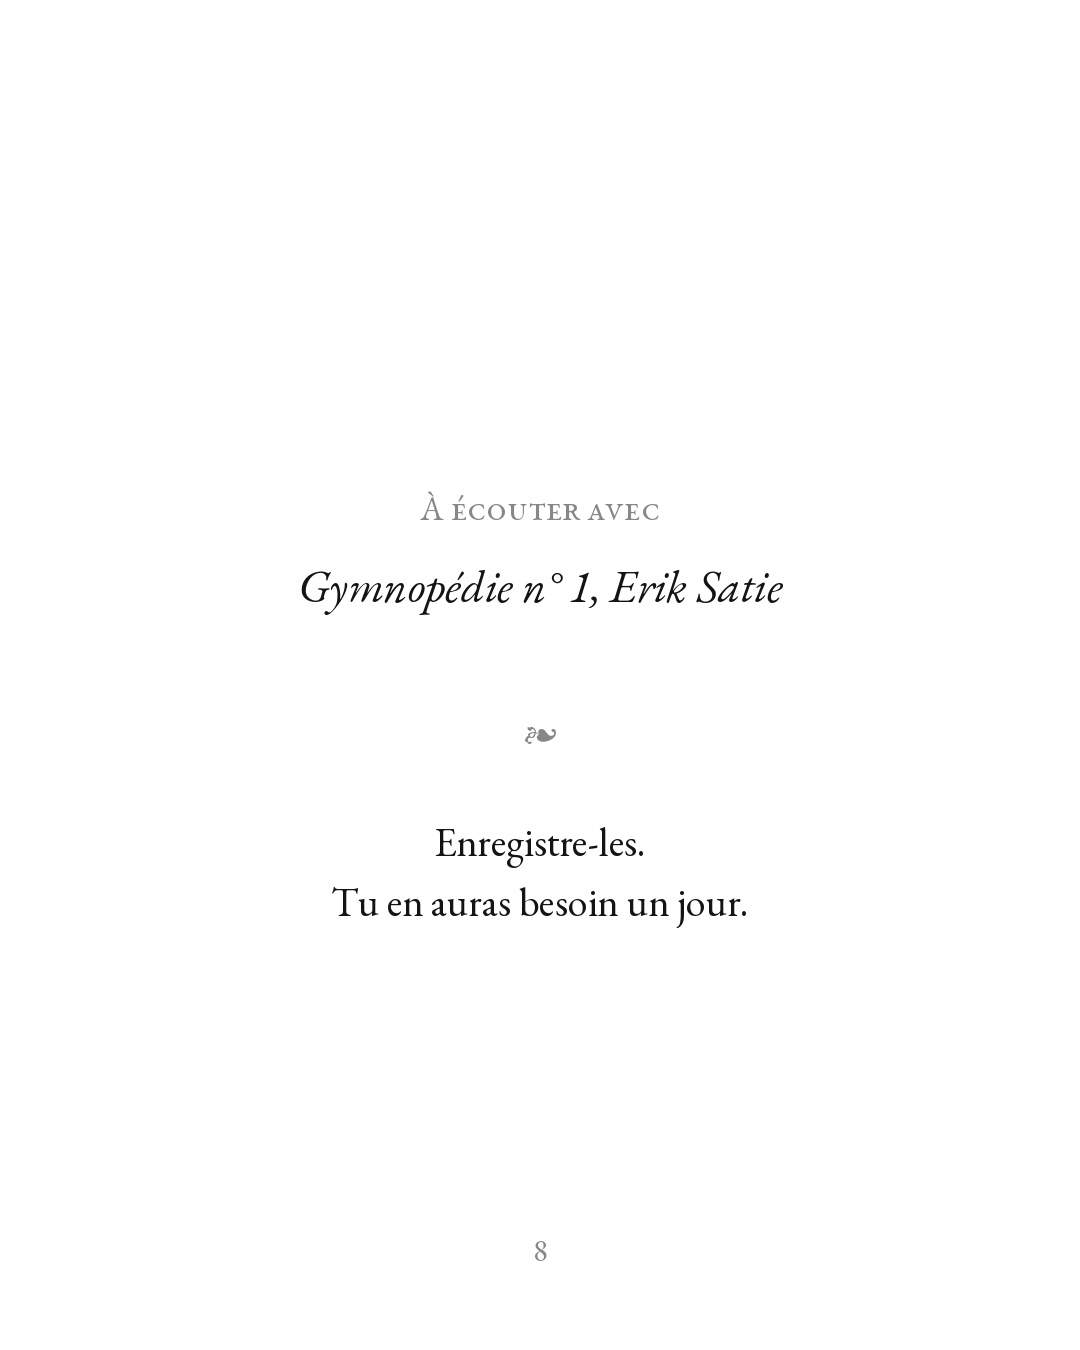
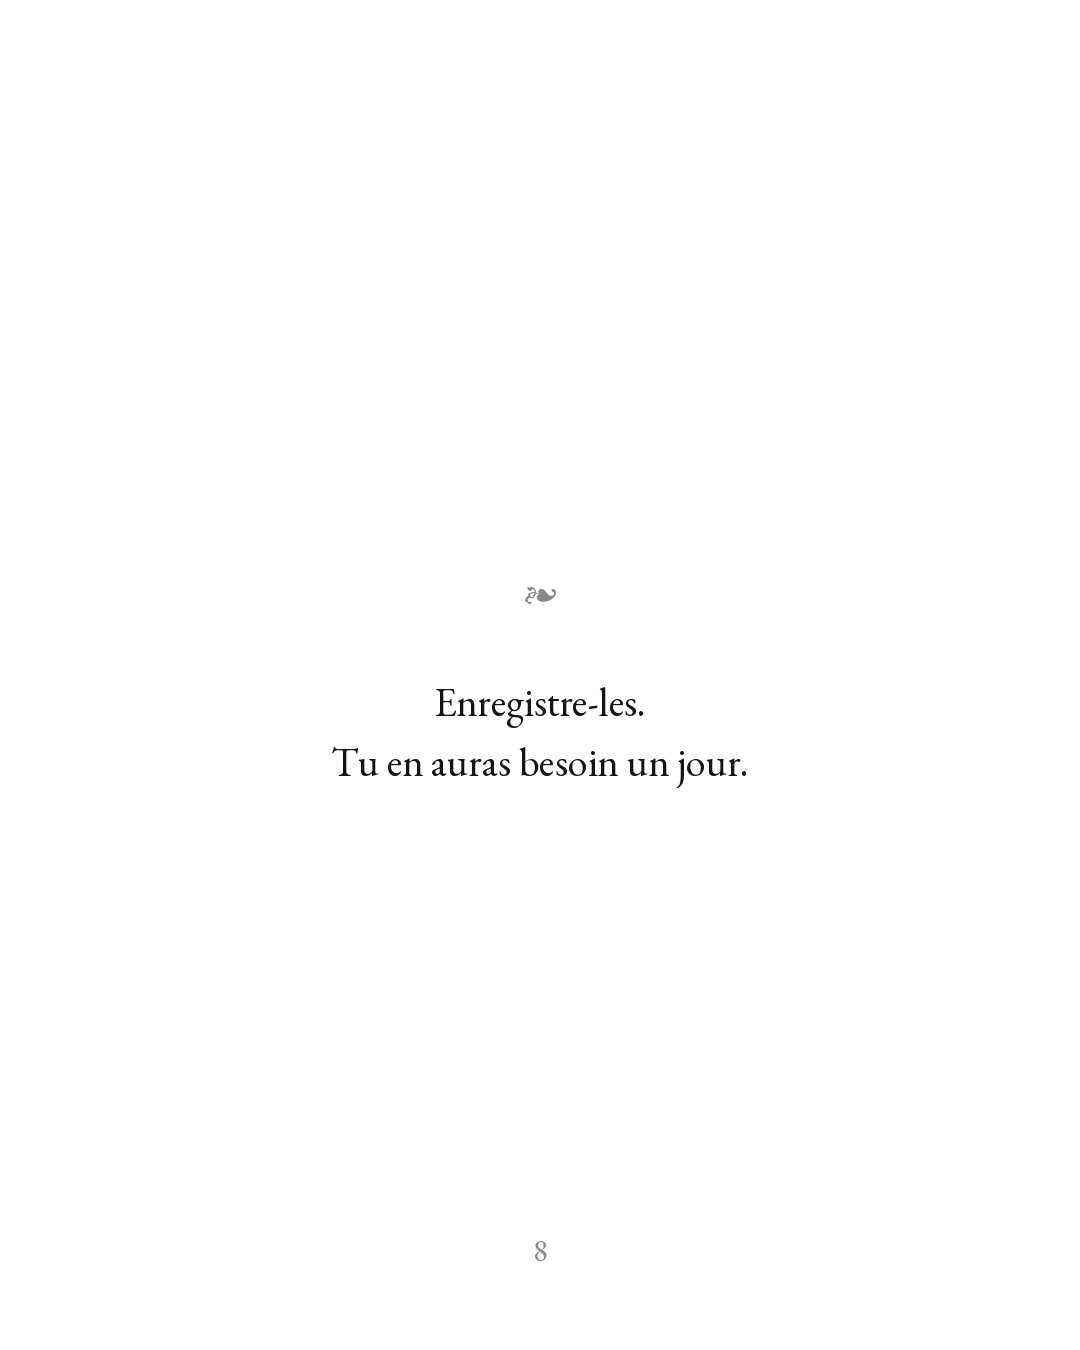
Carrousels : plus de musique annoncée (réservée aux Reels)
Claude-Session: https://claude.ai/code/session_01U6gLNEcin7ksmBFC3hNKZL

diff --git a/generate.py b/generate.py
@@ -17,7 +17,8 @@ spec.json :
   "music": "Gymnopédie n° 1, Erik Satie"
 }
 
-Slides : couverture · une citation par slide · bande-son + appel à l'enregistrement.
+Slides : couverture · une citation par slide · appel à l'enregistrement
+(la bande-son n'est annoncée que dans le Reel, où elle est réellement entendue).
 Typographie : EB Garamond, justification avec césure française, espaces fines
 insécables avant ; ! ? et dans les guillemets, insécable avant :, apostrophe courbe.
 """
@@ -264,6 +265,7 @@ def slide_quote(q, n):
 
 
 def slide_music(spec, n):
+    """Dernière slide du Reel : la musique y est réellement entendue."""
     im = Image.new("RGB", (W, H), BG); d = ImageDraw.Draw(im)
     y = H / 2 - 190
     centered(d, "À écouter avec", y, font(34), GREY, ["smcp"]); y += 70
@@ -277,11 +279,22 @@ def slide_music(spec, n):
     return im
 
 
-def build_slides(spec):
+def slide_end(n):
+    """Dernière slide du carrousel : pas de musique annoncée, puisqu'on ne l'entend pas."""
+    im = Image.new("RGB", (W, H), BG); d = ImageDraw.Draw(im)
+    y = H / 2 - 110
+    centered(d, "❧", y, font(34), GREY); y += 110
+    centered(d, "Enregistre-les.", y, font(40)); y += 60
+    centered(d, "Tu en auras besoin un jour.", y, font(40))
+    folio(d, n)
+    return im
+
+
+def build_slides(spec, reel=False):
     qs = spec["quotes"][:8]                 # Instagram : 10 slides max
     slides = [slide_cover(spec, len(qs))]
     slides += [slide_quote(q, i) for i, q in enumerate(qs, 2)]
-    slides.append(slide_music(spec, len(qs) + 2))
+    slides.append(slide_music(spec, len(qs) + 2) if reel else slide_end(len(qs) + 2))
     return slides
 
 

diff --git a/generate_reel.py b/generate_reel.py
@@ -46,7 +46,7 @@ def durations(spec, max_quotes_time=28.0):
 
 def render_reel(spec, out):
     os.makedirs(out, exist_ok=True)
-    slides, durs = build_slides(spec), durations(spec)
+    slides, durs = build_slides(spec, reel=True), durations(spec)
     tmp = tempfile.mkdtemp()
     frames = []
     for i, im in enumerate(slides):
